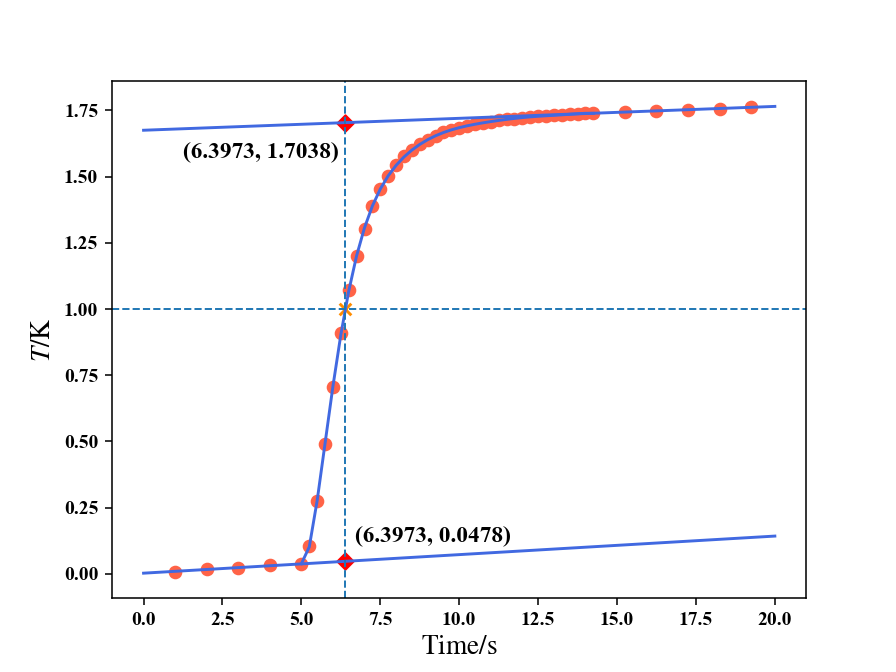
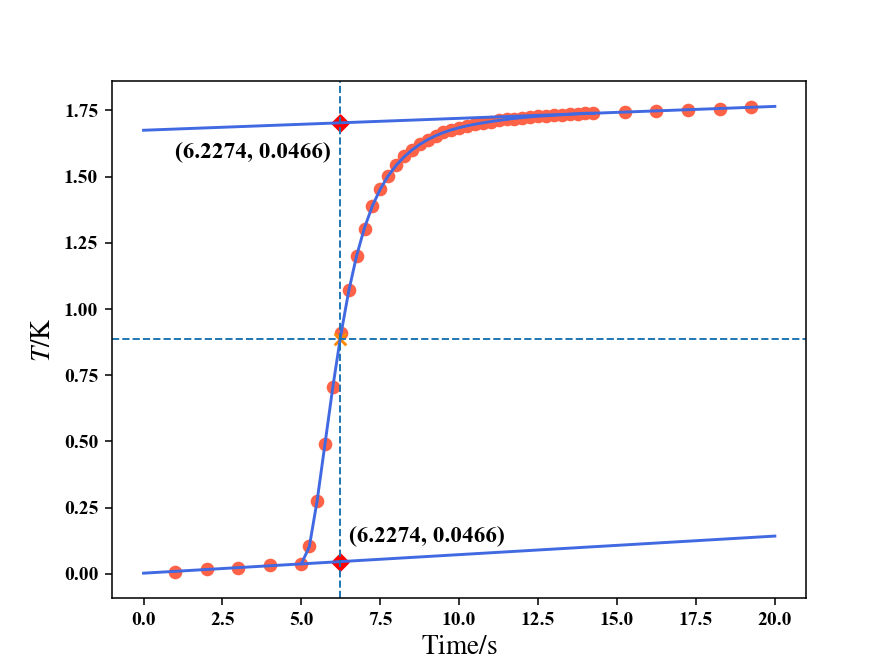
:pencil2: correct wrong methods of calculations

Changed region(s): [[0.1875, 0.125, 0.5938, 0.875]]

diff --git a/Exp5.py b/Exp5.py
@@ -39,6 +39,8 @@ htem_2 = np.append(etem_2[4],htem_2)
 #print("dissipation func = ",dfit)
 #hfit = np.poly1d(np.polyfit(ht, htem_1, 10))
 #print("heat func = ",hfit)
+#mid_1 = (tem_1[0]+tem_1[len(tem_1)-1])/2
+#print("mid = ", mid_1)
 
 #sample_2
 efit = np.poly1d(np.polyfit(et, etem_2, 1))
@@ -47,33 +49,35 @@ dfit = np.poly1d(np.polyfit(dt, dtem_2, 1))
 print("dissipation func = ",dfit)
 hfit = np.poly1d(np.polyfit(ht, htem_2, 10))
 print("heat func = ",hfit)
+mid_2 = (tem_2[0]+tem_2[len(tem_2)-1])/2
+print("mid = ", mid_2)
 
 line_x = [0,20]
-
 
 plt.plot(ht, hfit(ht), c='royalblue')
 plt.plot(line_x, efit(line_x), c='royalblue')
 plt.plot(line_x, dfit(line_x), c='royalblue')
-plt.axhline(y=1.0, ls="--", linewidth=1)
 plt.xlabel(r'$\mathrm{Time/s}$', fontsize=14)
 plt.ylabel(r'$T\mathrm{/K}$', fontsize=14)
 
 
 #sample_1
 #plt.scatter(t, tem_1, c='tomato', marker='o')
-#plt.axvline(x=6.64336, ls="--", linewidth=1)
-#plt.scatter(x=6.64336, y=1.0, marker='x', c='darkorange')
-#plt.scatter([6.64336, 6.64336],[0.01824, 1.47423], marker='D', c='r')
-#plt.annotate('(6.6434, 0.0182)',xy=(6.76, 0.06),fontsize = 12)
-#plt.annotate('(6.6434, 1.4742)',xy=(1.39, 1.36),fontsize = 12)
+#plt.axhline(y=mid_1, ls="--", linewidth=1)
+#plt.axvline(x=6.22053, ls="--", linewidth=1)
+#plt.scatter(x=6.22053, y=mid_1, marker='x', c='darkorange')
+#plt.scatter([6.22053, 6.22053],[efit(6.22053), dfit(6.22053)], marker='D', c='r')
+#plt.annotate('(6.2205, %.4f)'%efit(6.22053), xy=(6.76, 0.06),fontsize = 12)
+#plt.annotate('(6.2205, %.4f)'%dfit(6.22053), xy=(1.00, 1.36),fontsize = 12)
 
 
 #sample_2
 plt.scatter(t, tem_2, c='tomato', marker='o')
-plt.axvline(x=6.39725, ls="--", linewidth=1)
-plt.scatter(x=6.39725, y=1.0, marker='x', c='darkorange')
-plt.scatter([6.39725, 6.39725],[0.04778, 1.70379], marker='D', c='r')
-plt.annotate('(6.3973, 0.0478)',xy=(6.69, 0.12),fontsize = 12)
-plt.annotate('(6.3973, 1.7038)',xy=(1.25, 1.57),fontsize = 12)
+plt.axhline(y=mid_2, ls="--", linewidth=1)
+plt.axvline(x=6.2274, ls="--", linewidth=1)
+plt.scatter(x=6.2274, y=mid_2, marker='x', c='darkorange')
+plt.scatter([6.2274, 6.2274],[efit(6.2274), dfit(6.2274)], marker='D', c='r')
+plt.annotate('(6.2274, %.4f)'%efit(6.2274),xy=(6.50, 0.12),fontsize = 12)
+plt.annotate('(6.2274, %.4f)'%efit(6.2274),xy=(1.00, 1.57),fontsize = 12)
 
 plt.show()

diff --git a/Exp8.py b/Exp8.py
@@ -11,6 +11,8 @@ sp = r - 1
 
 rfit = np.poly1d(np.polyfit(c, np.log(r)/c, 1))
 spfit = np.poly1d(np.polyfit(c, sp/c, 1))
+print("r = ", r)
+print("sp = ", sp)
 print("rfit = ", rfit)
 print("spfit = ", spfit)
 line_x=[0,6.5]
